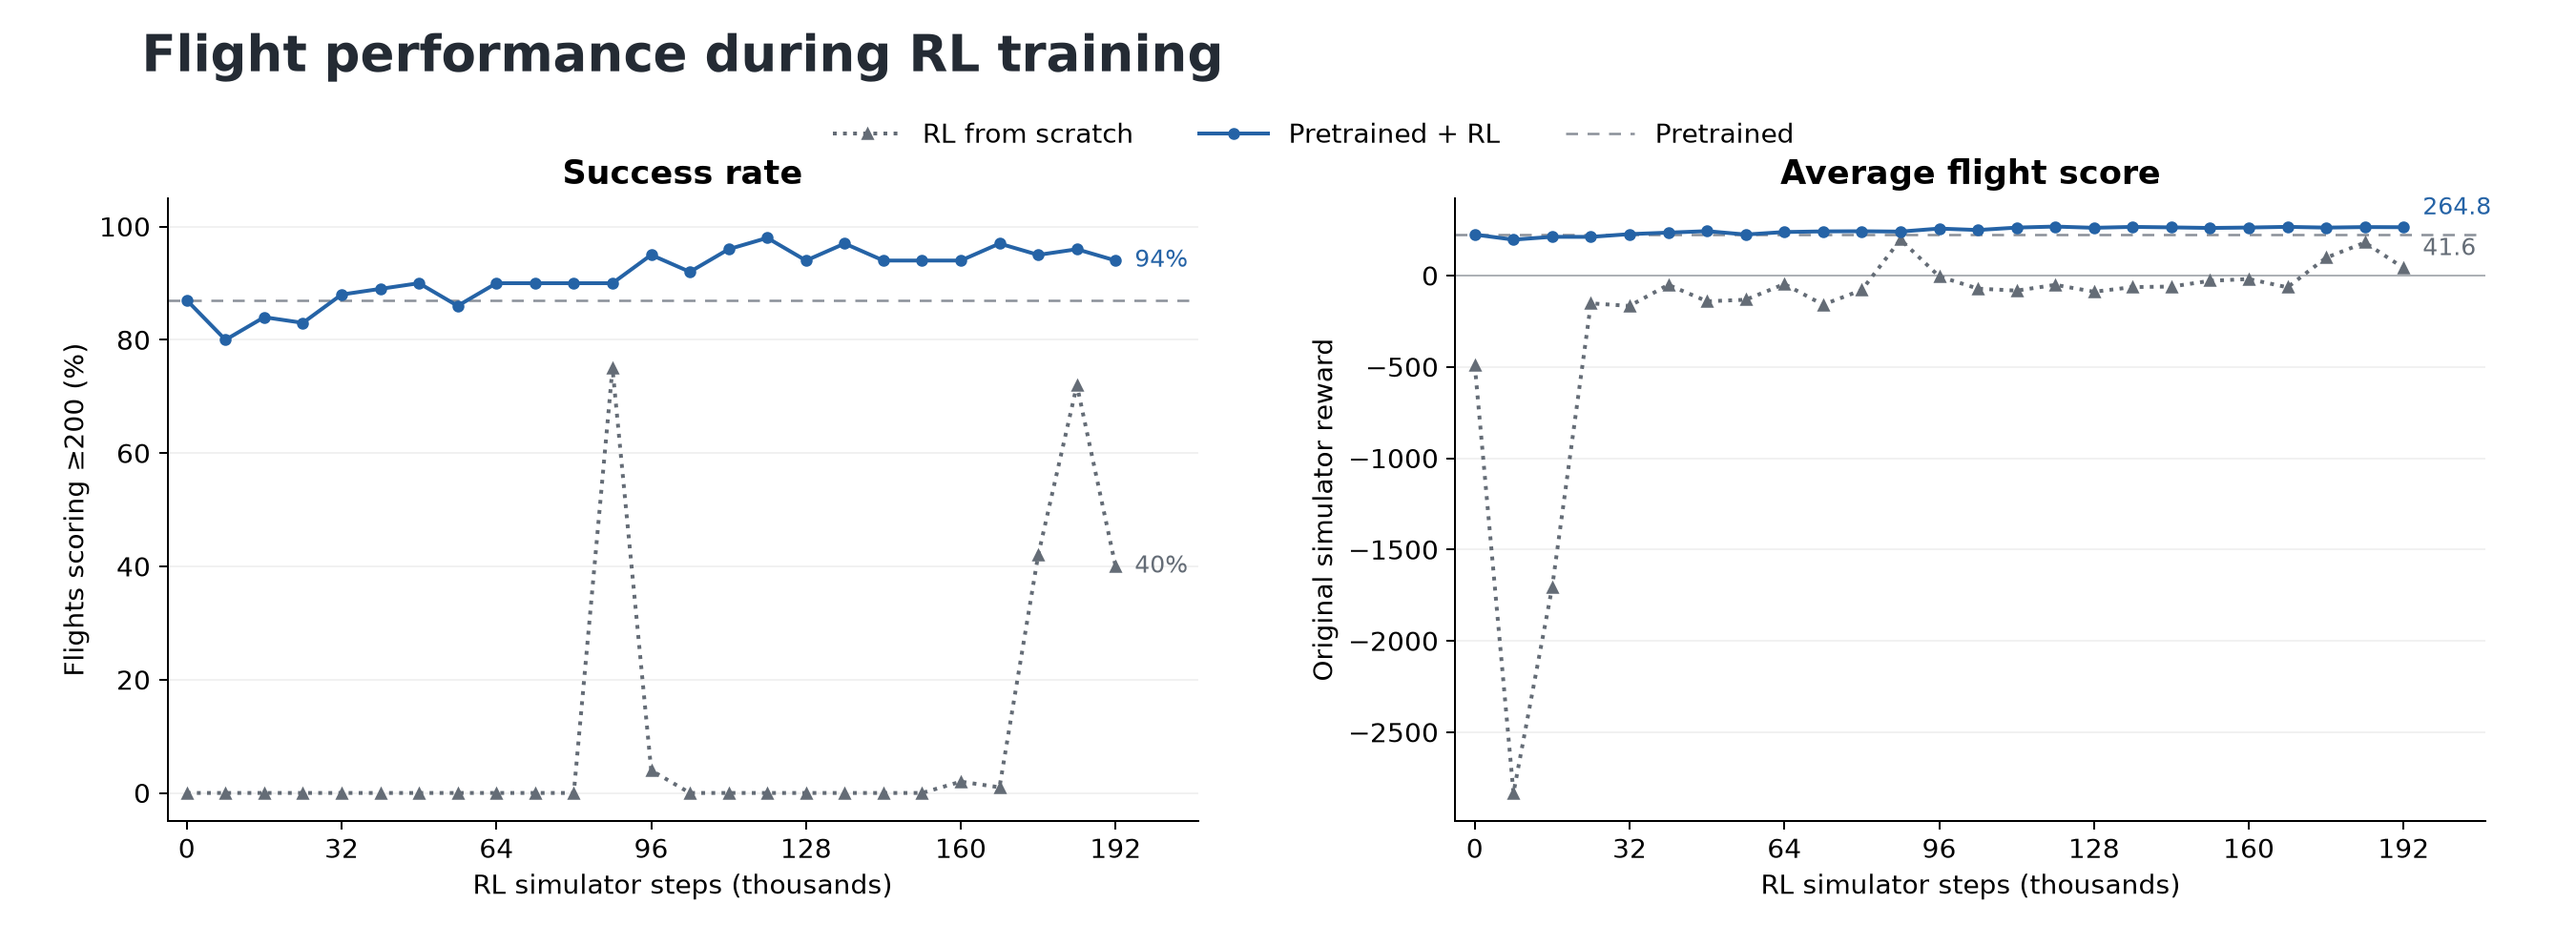
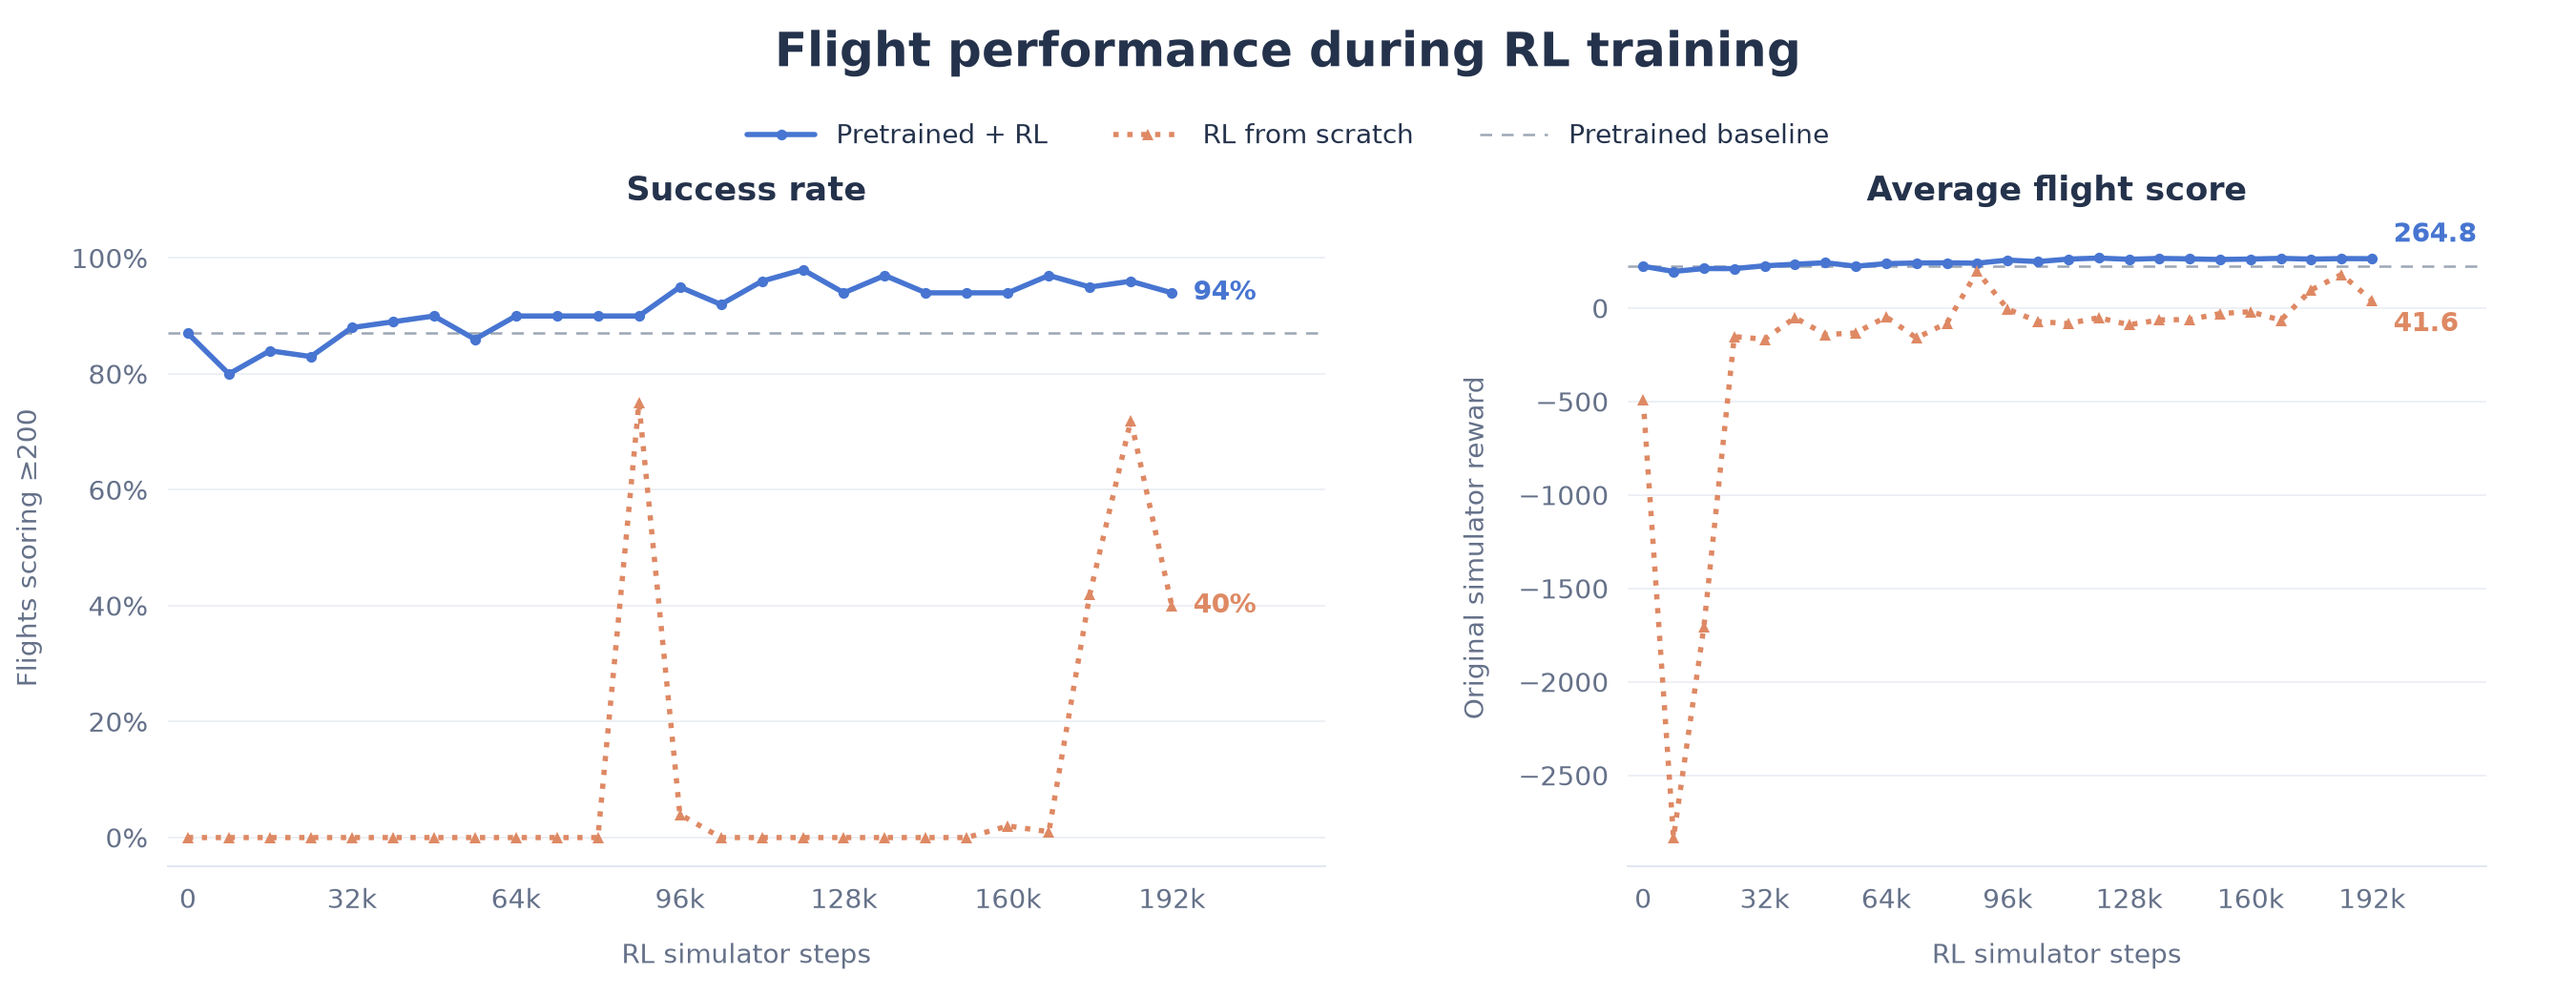
cleaned up graphs

diff --git a/README.md b/README.md
@@ -2,11 +2,9 @@
 
 A GPT-style decoder-only Transformer with multi-head Attention and **100k parameters**, built from scratch in PyTorch.
 
-<table width="50%" align="center"><td>
-
----
-
-</td></table>
+<p align="center">
+  <img src="assets/separator.svg" width="50%" alt="">
+</p>
 
 I repurposed the GPT architecture to land Gymnasium's LunarLander because:
 1. I don't have enough compute to train a good language model locally.
@@ -197,7 +195,7 @@ The actor loss trains the action head, the value loss trains the value head, and
   <sub>We also trained the network from scratch using RL for <del> fun</del> science.</sub>
 </p>
 
-After RL, success rose from **87% to 94%**, while teacher-action agreement fell from 92.72% to 82.92%. The model also improved its flight performance while matching the teacher less often: the beginnings of emergent behavior.
+After RL, success rose from **87% to 94%**, while teacher-action agreement fell from 92.72% to 82.92%. The model improved its flight performance while matching the teacher less often: the beginnings of emergent behavior.
 
 ![Success rate and average score throughout RL training](assets/rl_rewards.png)
 
